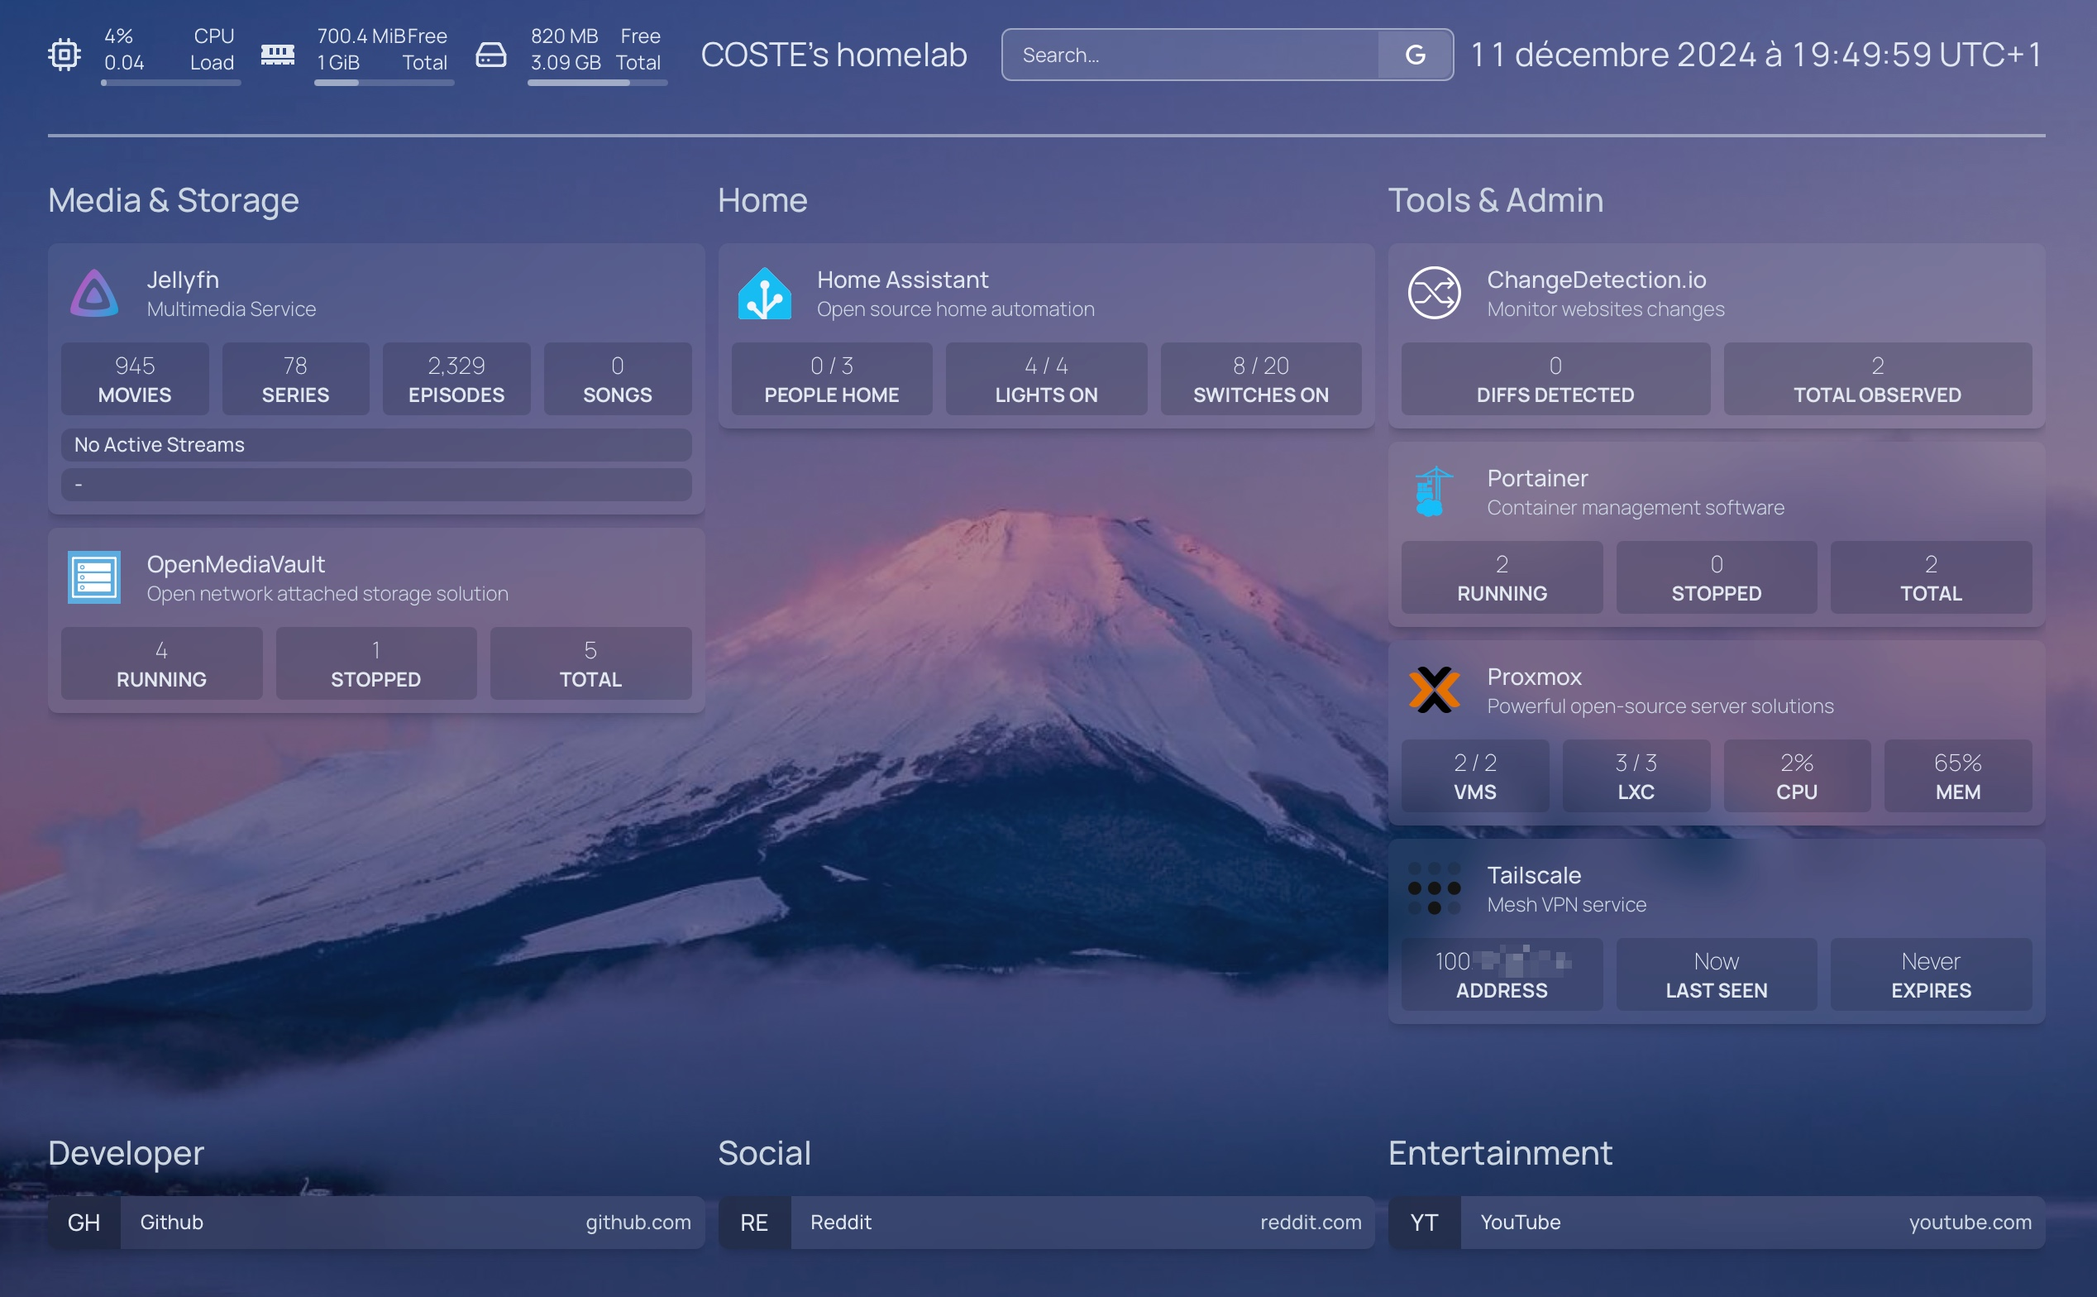
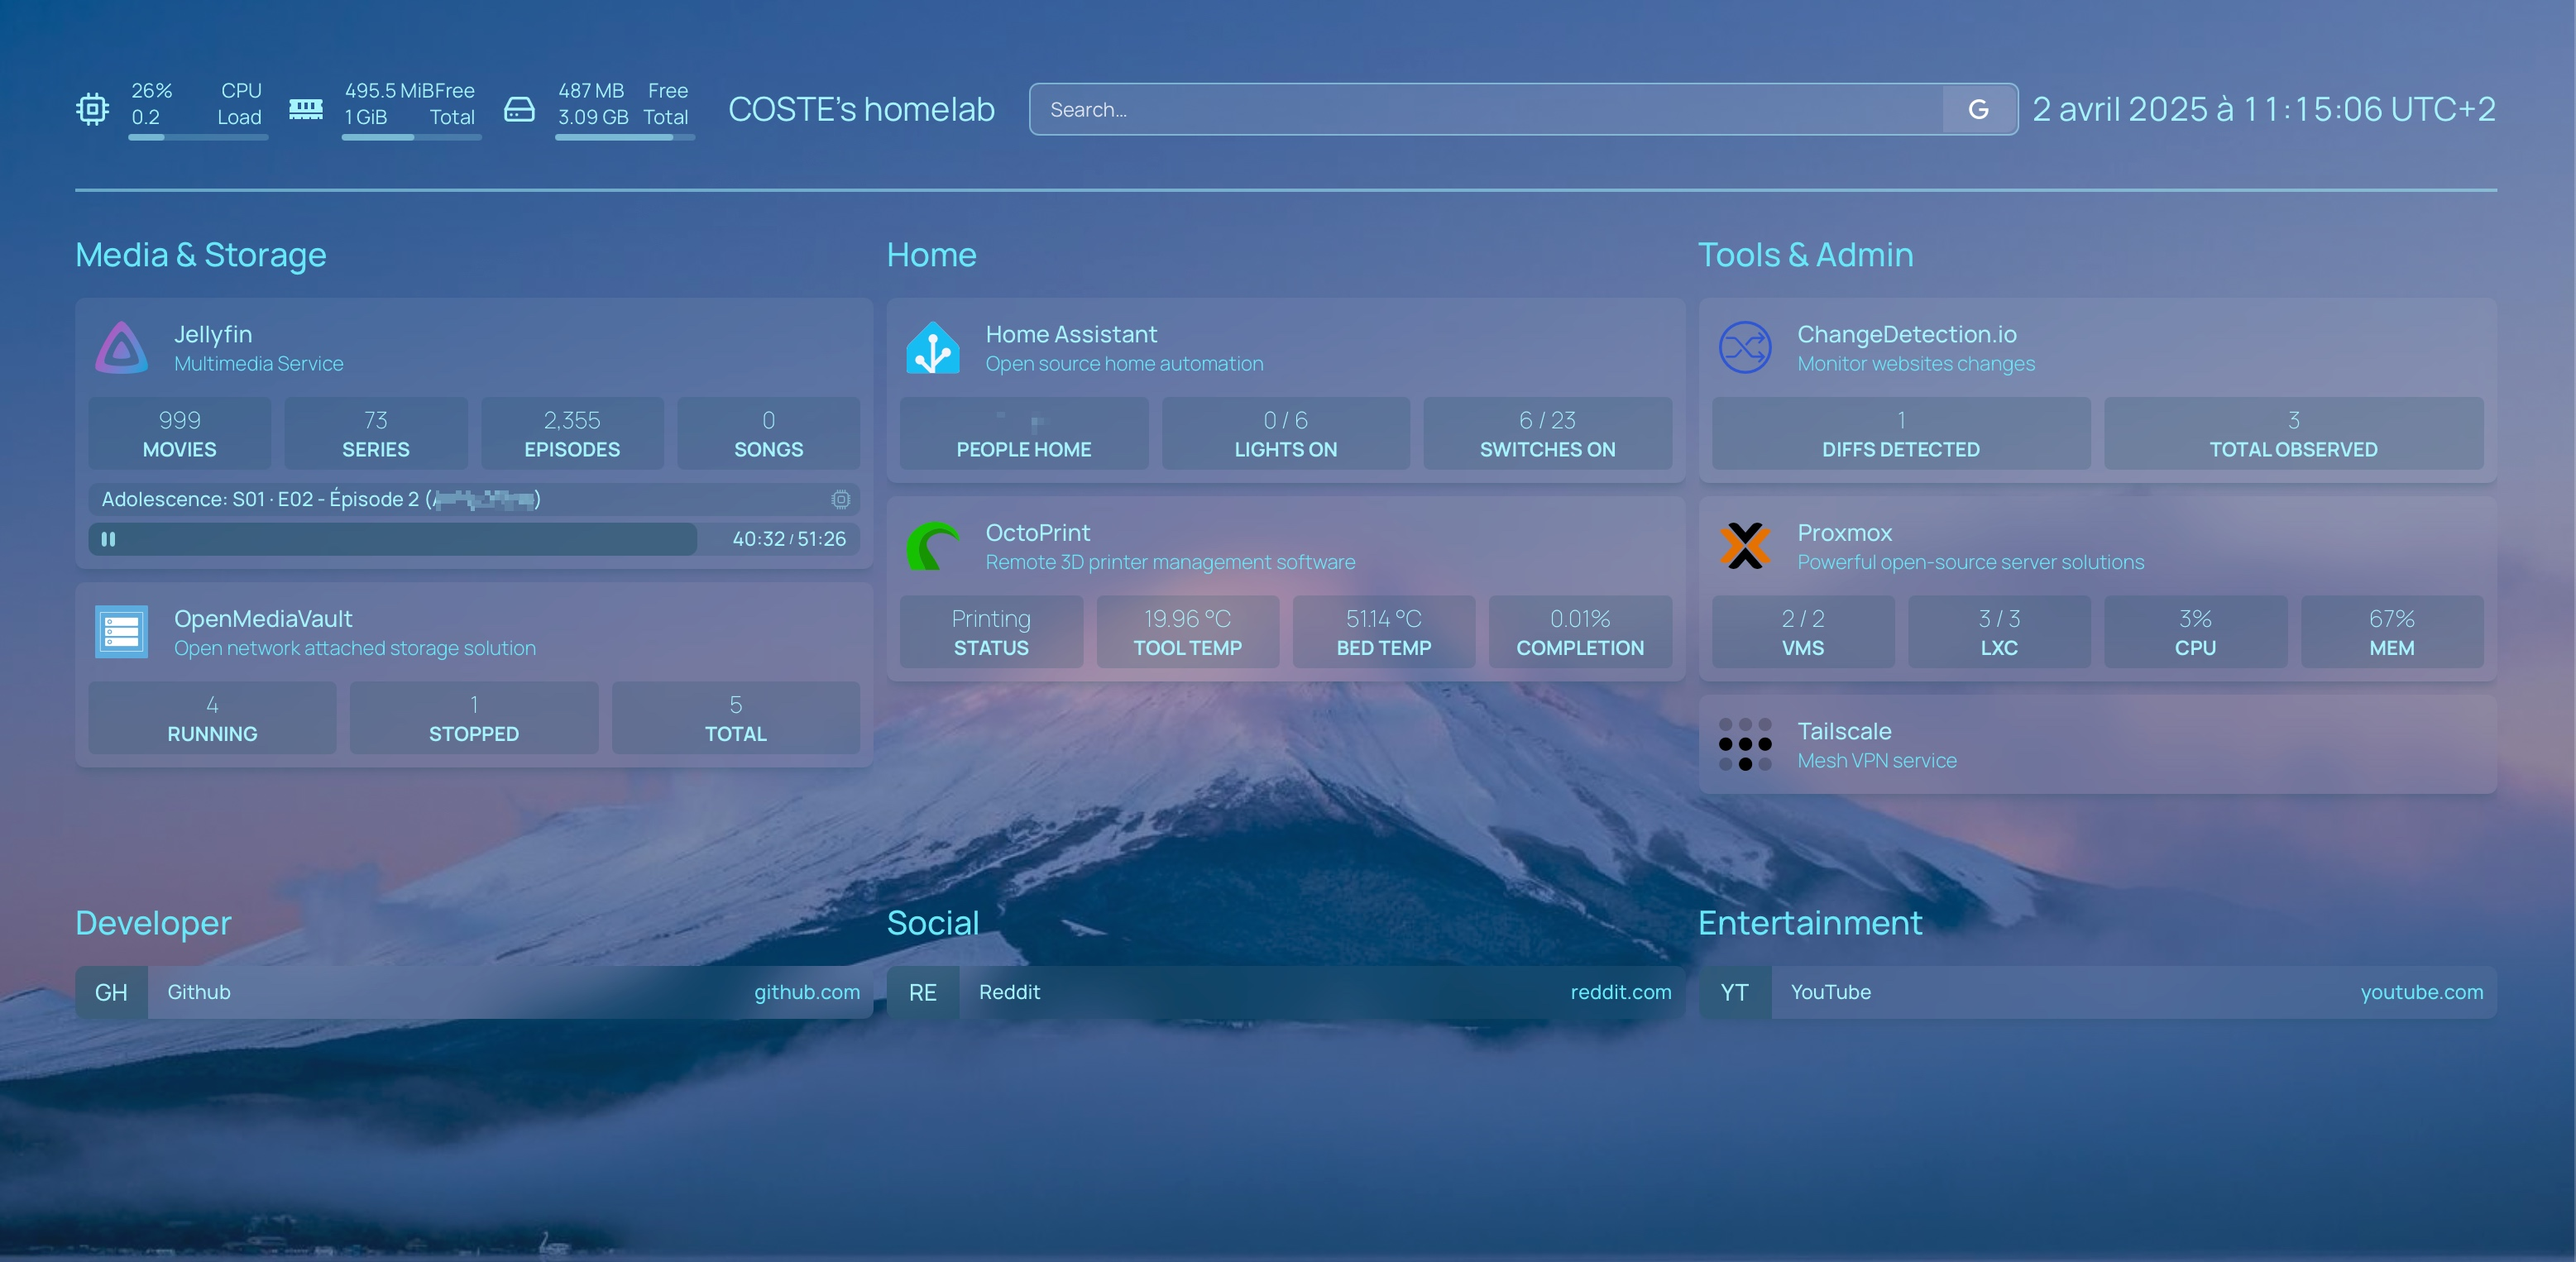
Add OctoPrint

diff --git a/README.md b/README.md
@@ -14,6 +14,7 @@ The current configuration includes the following services:
 - **[ChangeDetection](https://github.com/dgtlmoon/changedetection.io):** Website change monitoring tool.
 - **[Proxmox](https://www.proxmox.com/):** Virtualization and container platform.
 - **[Tailscale](https://tailscale.com/):** Mesh VPN for secure remote access.
+- **[OctoPrint](https://octoprint.org/):** Remote 3D printer management software.
 
 01/04/2025 [UPDATE] : I added the following part concerning the storage of credentials, URLs and API keys inside a different file. That way, you can easily share your services.yaml file and store all the sensitive information into a dedicated and separate file. This tutorial is specific to the Proxmox approach. If you installed Homepage thanks to Docker, the environment variable creation is different, and well documented on the internet. Nevertheless, it was not so easy to find with the Proxmox approach.
 
